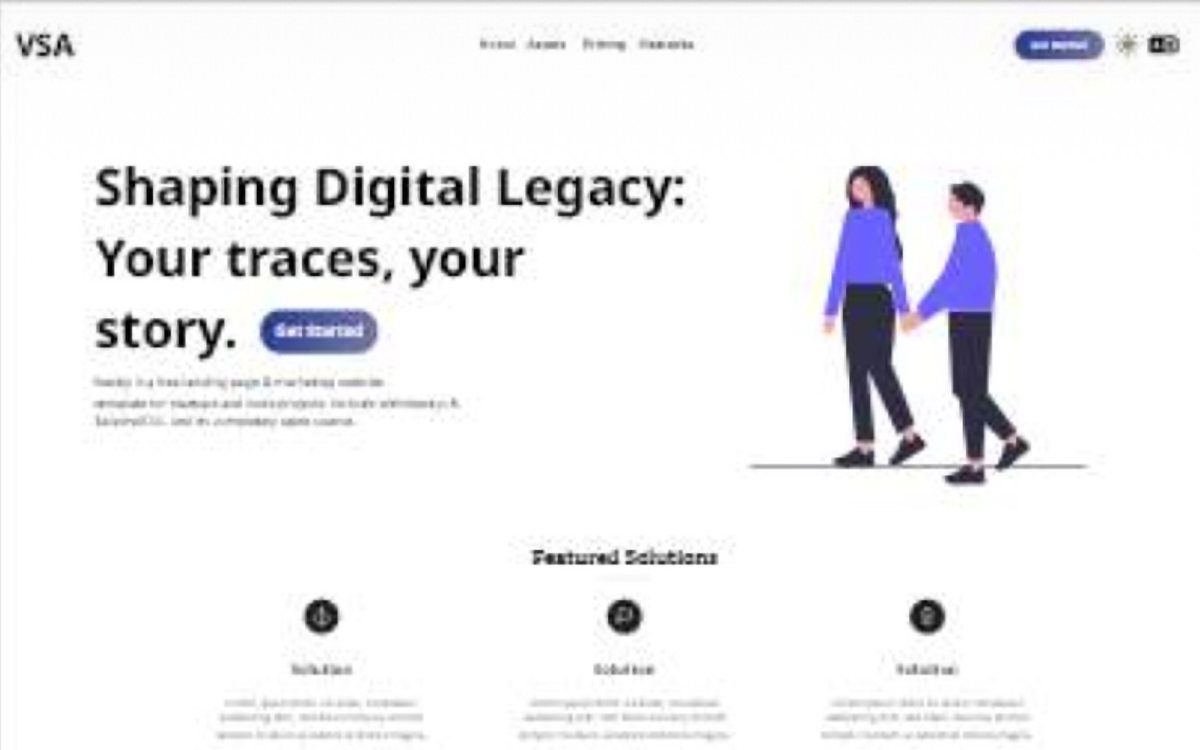
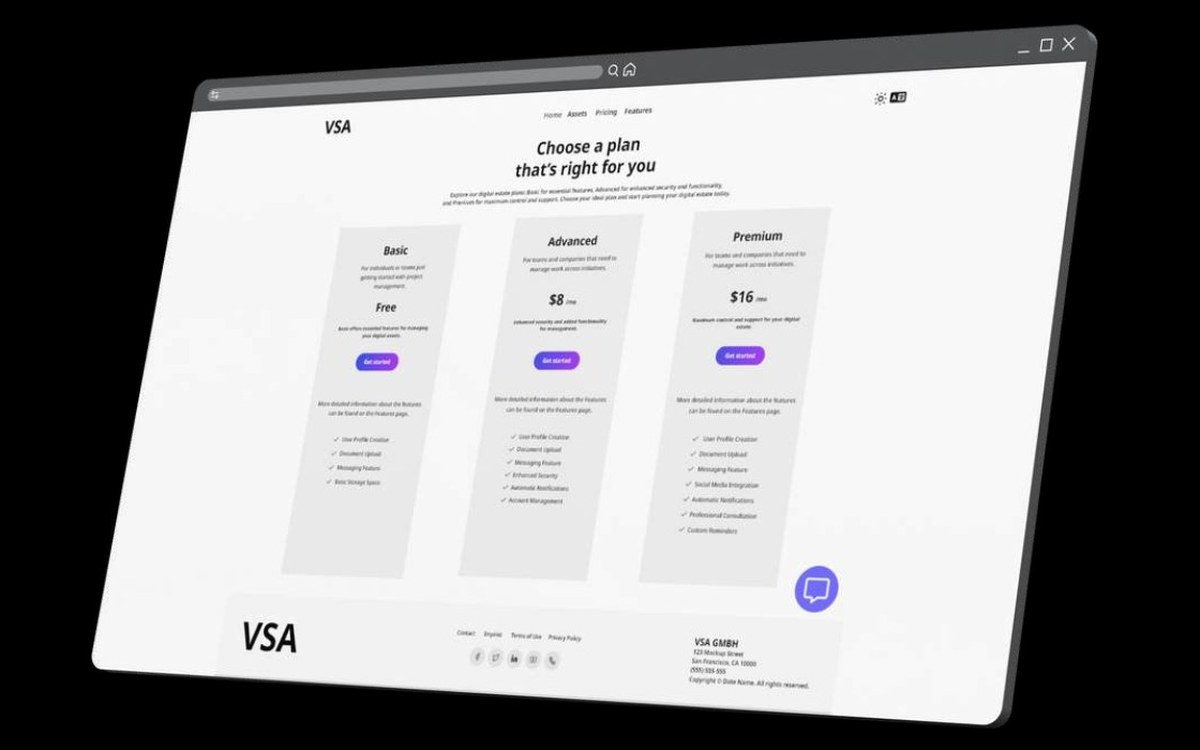
Cards lighter, VSA cover, Lab card with collage, remove Lab teaser
Claude-Session: https://claude.ai/code/session_01MGpawRiiwHTkNBdGgmQyvH

diff --git a/app/page.tsx b/app/page.tsx
@@ -635,24 +635,37 @@ export default function Home() {
 
           <Link
             href="/lab"
-            className="projectCard projectCardLab"
+            className="projectCard"
           >
+
+            <div className="projectCover">
+
+              <Image
+                src="/images/covers/lab.jpg"
+                alt="A collage of work from the Lab"
+                fill
+                className="projectCoverImage"
+                sizes="(max-width: 900px) 100vw, 33vw"
+              />
+
+            </div>
+
 
             <div className="projectCardBody">
 
               <div className="projectCardTop">
 
-                <span>+</span>
+                <span>06</span>
 
-                <span>THE LAB</span>
+                <span>EXPERIMENTS</span>
 
               </div>
 
-              <h3>More experiments, films &amp; 3D.</h3>
+              <h3>The Lab</h3>
 
               <p>
-                Animation, sound, photography and smaller
-                studies live in the Lab.
+                Animation, film, 3D, sound, graphics and
+                photography: smaller studies and experiments.
               </p>
 
               <div className="projectCardFoot">
@@ -861,93 +874,6 @@ export default function Home() {
 
 
       {/* =====================================
-          LAB TEASER
-      ===================================== */}
-
-      <section className="labTeaser">
-
-        <div className="sectionHeader sectionReveal">
-
-          <span>
-            03 — THE LAB
-          </span>
-
-          <span>
-            MORE TO EXPLORE
-          </span>
-
-        </div>
-
-
-        <div className="labTeaserContent">
-
-          <h2 className="sectionReveal">
-
-            NOT
-
-            <br />
-
-            EVERYTHING
-
-            <br />
-
-            FITS IN A
-
-            <br />
-
-            CASE STUDY.
-
-          </h2>
-
-
-          <div className="labTeaserRight sectionReveal">
-
-            <p>
-              Motion experiments, short films,
-              graphic design, photography, sound,
-              3D studies and smaller development
-              projects live in my creative archive.
-            </p>
-
-
-            <div className="labTags">
-
-              <span>MOTION</span>
-
-              <span>FILM</span>
-
-              <span>GRAPHICS</span>
-
-              <span>SOUND</span>
-
-              <span>3D</span>
-
-              <span>CODE</span>
-
-            </div>
-
-
-            <Link
-              href="/lab"
-              className="labButton"
-            >
-
-              EXPLORE THE LAB
-
-              <span>
-                ↗
-              </span>
-
-            </Link>
-
-          </div>
-
-        </div>
-
-      </section>
-
-
-      {/* =====================================
           CONTACT
       ===================================== */}
 
@@ -958,7 +884,7 @@ export default function Home() {
 
         <span className="sectionNumber sectionReveal">
 
-          04 — CONTACT
+          03 — CONTACT
 
         </span>
 

diff --git a/app/globals.css b/app/globals.css
@@ -670,10 +670,10 @@ section {
 
   overflow: hidden;
 
-  border: 1px solid var(--line);
+  border: 1px solid #3a3a3a;
   border-radius: 8px;
 
-  background: #0f0f0f;
+  background: #1b1b1b;
 
   transition:
     border-color 0.3s ease,
@@ -681,7 +681,7 @@ section {
 }
 
 .projectCard:hover {
-  border-color: #4a4a4a;
+  border-color: #6a6a6a;
 
   transform: translateY(-5px);
 }
@@ -739,7 +739,7 @@ section {
 }
 
 .projectCard p {
-  color: var(--grey);
+  color: #a8a8a8;
 
   font-size: 14px;
 
@@ -758,118 +758,6 @@ section {
 
   letter-spacing: 0.14em;
 }
-
-.projectCardLab {
-  justify-content: center;
-
-  background: var(--accent);
-  color: #090909;
-
-  border-color: var(--accent);
-}
-
-.projectCardLab .projectCardBody {
-  justify-content: space-between;
-
-  min-height: 260px;
-}
-
-.projectCardLab .projectCardTop,
-.projectCardLab p {
-  color: #2a3a00;
-}
-
-
-/* =========================================
-   LAB TEASER
-========================================= */
-
-.labTeaser {
-  padding: 80px 65px 90px;
-
-  background: var(--white);
-
-  color: var(--black);
-}
-
-.labTeaserContent {
-  margin-top: 60px;
-
-  display: grid;
-
-  grid-template-columns: 1.2fr 0.8fr;
-
-  gap: 100px;
-}
-
-.labTeaser h2 {
-  font-size: clamp(65px, 9vw, 145px);
-
-  line-height: 0.84;
-
-  letter-spacing: -0.07em;
-}
-
-.labTeaserRight {
-  align-self: end;
-}
-
-.labTeaserRight > p {
-  font-size: 19px;
-
-  line-height: 1.5;
-
-  letter-spacing: -0.02em;
-}
-
-.labTags {
-  margin-top: 35px;
-
-  display: flex;
-  flex-wrap: wrap;
-
-  gap: 8px;
-}
-
-.labTags span {
-  padding: 8px 12px;
-
-  border: 1px solid #aaa7a1;
-
-  border-radius: 100px;
-
-  font-size: 11px;
-
-  letter-spacing: 0.11em;
-}
-
-.labButton {
-  width: 100%;
-
-  margin-top: 60px;
-
-  padding: 22px 0;
-
-  display: flex;
-
-  justify-content: space-between;
-
-  border-top: 1px solid var(--black);
-  border-bottom: 1px solid var(--black);
-
-  font-size: 12px;
-
-  letter-spacing: 0.13em;
-
-  transition: padding 0.3s ease;
-}
-
-.labButton:hover {
-  padding-left: 15px;
-
-  padding-right: 15px;
-}
-
 
 /* =========================================
    CONTACT
@@ -1073,7 +961,6 @@ section {
   .aboutJourney,
   .journeySection,
   .workSection,
-  .labTeaser,
   .contact {
     padding-left: 22px;
 
@@ -1113,8 +1000,7 @@ section {
 
   /* ABOUT */
 
-  .aboutIntro,
-  .labTeaserContent {
+  .aboutIntro {
     grid-template-columns: 1fr;
 
     gap: 70px;
